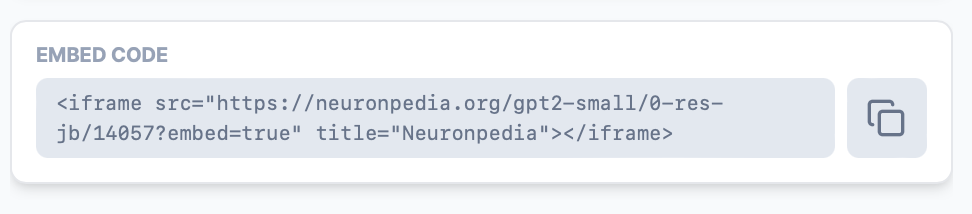
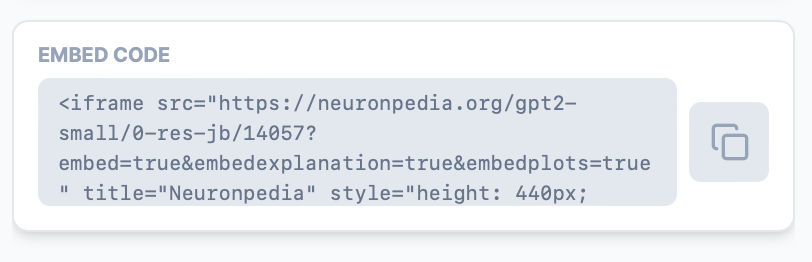
New embed docs

Changed region(s): [[0.0308, 0.1682, 0.9544, 0.785], [0.0, 0.8411, 0.9852, 0.8972], [0.0308, 0.0841, 0.9852, 0.1121]]

diff --git a/docs/embed-iframe.md b/docs/embed-iframe.md
@@ -4,22 +4,56 @@ sidebar_position: 3
 
 # Embed Features (iframe)
 
+## Basics
+
 Neuronpedia features can be embedded in Iframes on your site or third-party sites.
 
 Every feature has an `Embed Code` section with a Copy icon which allows you to quickly paste the iframe code for that feature.
 
 ![Screenshot of a embed code at https://neuronpedia.org/gpt2-small/0-res-jb/14057](img/embedcode.png)
 
-Alternatively, you can construct your own by simply adding `?embed=true` to the end of any feature's URL and add it in an iframe tag. The following demonstrates the embed for `GPT2-SMALL@0-RES-JB:14057`:
+Alternatively, you can construct your own by simply adding `?embed=true` to the end of any feature's URL and add it in an iframe tag.
+
+## Example
+
+The following demonstrates the embed for `GPT2-SMALL@0-RES-JB:14057`:
 
 Feature URL: `https://neuronpedia.org/gpt2-small/0-res-jb/14057`
 
 Embed URL: `https://neuronpedia.org/gpt2-small/0-res-jb/14057?embed=true`
 
-Embed Code: `<iframe src="https://neuronpedia.org/gpt2-small/0-res-jb/14057?embed=true" title="Neuronpedia" style={{width:"680px", height:"440px"}}></iframe>`
+Embed Code: `<iframe src="https://neuronpedia.org/gpt2-small/0-res-jb/14057?embed=true&embedexplanation=true&embedplots=true" title="Neuronpedia" style="height: 440px; width: 650px;"></iframe>`
 
 And here's what the embed looks like:
 
-<iframe src="https://neuronpedia.org/gpt2-small/0-res-jb/14057?embed=true" title="Neuronpedia" style={{width:"680px", height:"440px"}}></iframe>
+<iframe src="https://neuronpedia.org/gpt2-small/0-res-jb/14057?embed=true&embedexplanation=true&embedplots=true" title="Neuronpedia" style={{width:"650px", height:"440px"}}></iframe>
 
-You can customize the width and height of the iframe by modifying the style attribute. Note that widths smaller than 640 pixels will result in stacking the dashboard vertically - so you should try to keep the width greater than 640 pixels.
+## Customizations
+
+### Width and Height
+
+You can customize the width and height of the iframe by modifying the style attribute. Note that widths smaller than 640 pixels will result in stacking the dashboard vertically, and show fewer top logits (5 instead of 10).
+
+Here's the example above, with smaller width and height:
+
+`<iframe src="https://neuronpedia.org/gpt2-small/0-res-jb/14057?embed=true&embedexplanation=true&embedplots=true" title="Neuronpedia" style={{width:"480px", height:"380px"}}></iframe>`
+
+<iframe src="https://neuronpedia.org/gpt2-small/0-res-jb/14057?embed=true&embedexplanation=true&embedplots=true" title="Neuronpedia" style={{width:"480px", height:"380px"}}></iframe>
+
+### Show Explanation
+
+Enable or disable showing the explanation (usually auto-interp) by changing query parameter `embedexplanation` to true or false. This is enabled by default.
+
+Here's the example above, without explanation:
+
+`<iframe src="https://neuronpedia.org/gpt2-small/0-res-jb/14057?embed=true&embedexplanation=false&embedplots=true" title="Neuronpedia" style={{width:"480px", height:"380px"}}></iframe>`
+
+<iframe src="https://neuronpedia.org/gpt2-small/0-res-jb/14057?embed=true&embedexplanation=false&embedplots=true" title="Neuronpedia" style={{width:"480px", height:"380px"}}></iframe>
+
+### Show Plots
+
+Enable or disable showing the two plots by changing query parameter `embedplots` to true or false. This is enabled by default.
+
+`<iframe src="https://neuronpedia.org/gpt2-small/0-res-jb/14057?embed=true&embedexplanation=true&embedplots=false" title="Neuronpedia" style={{width:"480px", height:"380px"}}></iframe>`
+
+<iframe src="https://neuronpedia.org/gpt2-small/0-res-jb/14057?embed=true&embedexplanation=true&embedplots=false" title="Neuronpedia" style={{width:"480px", height:"380px"}}></iframe>
